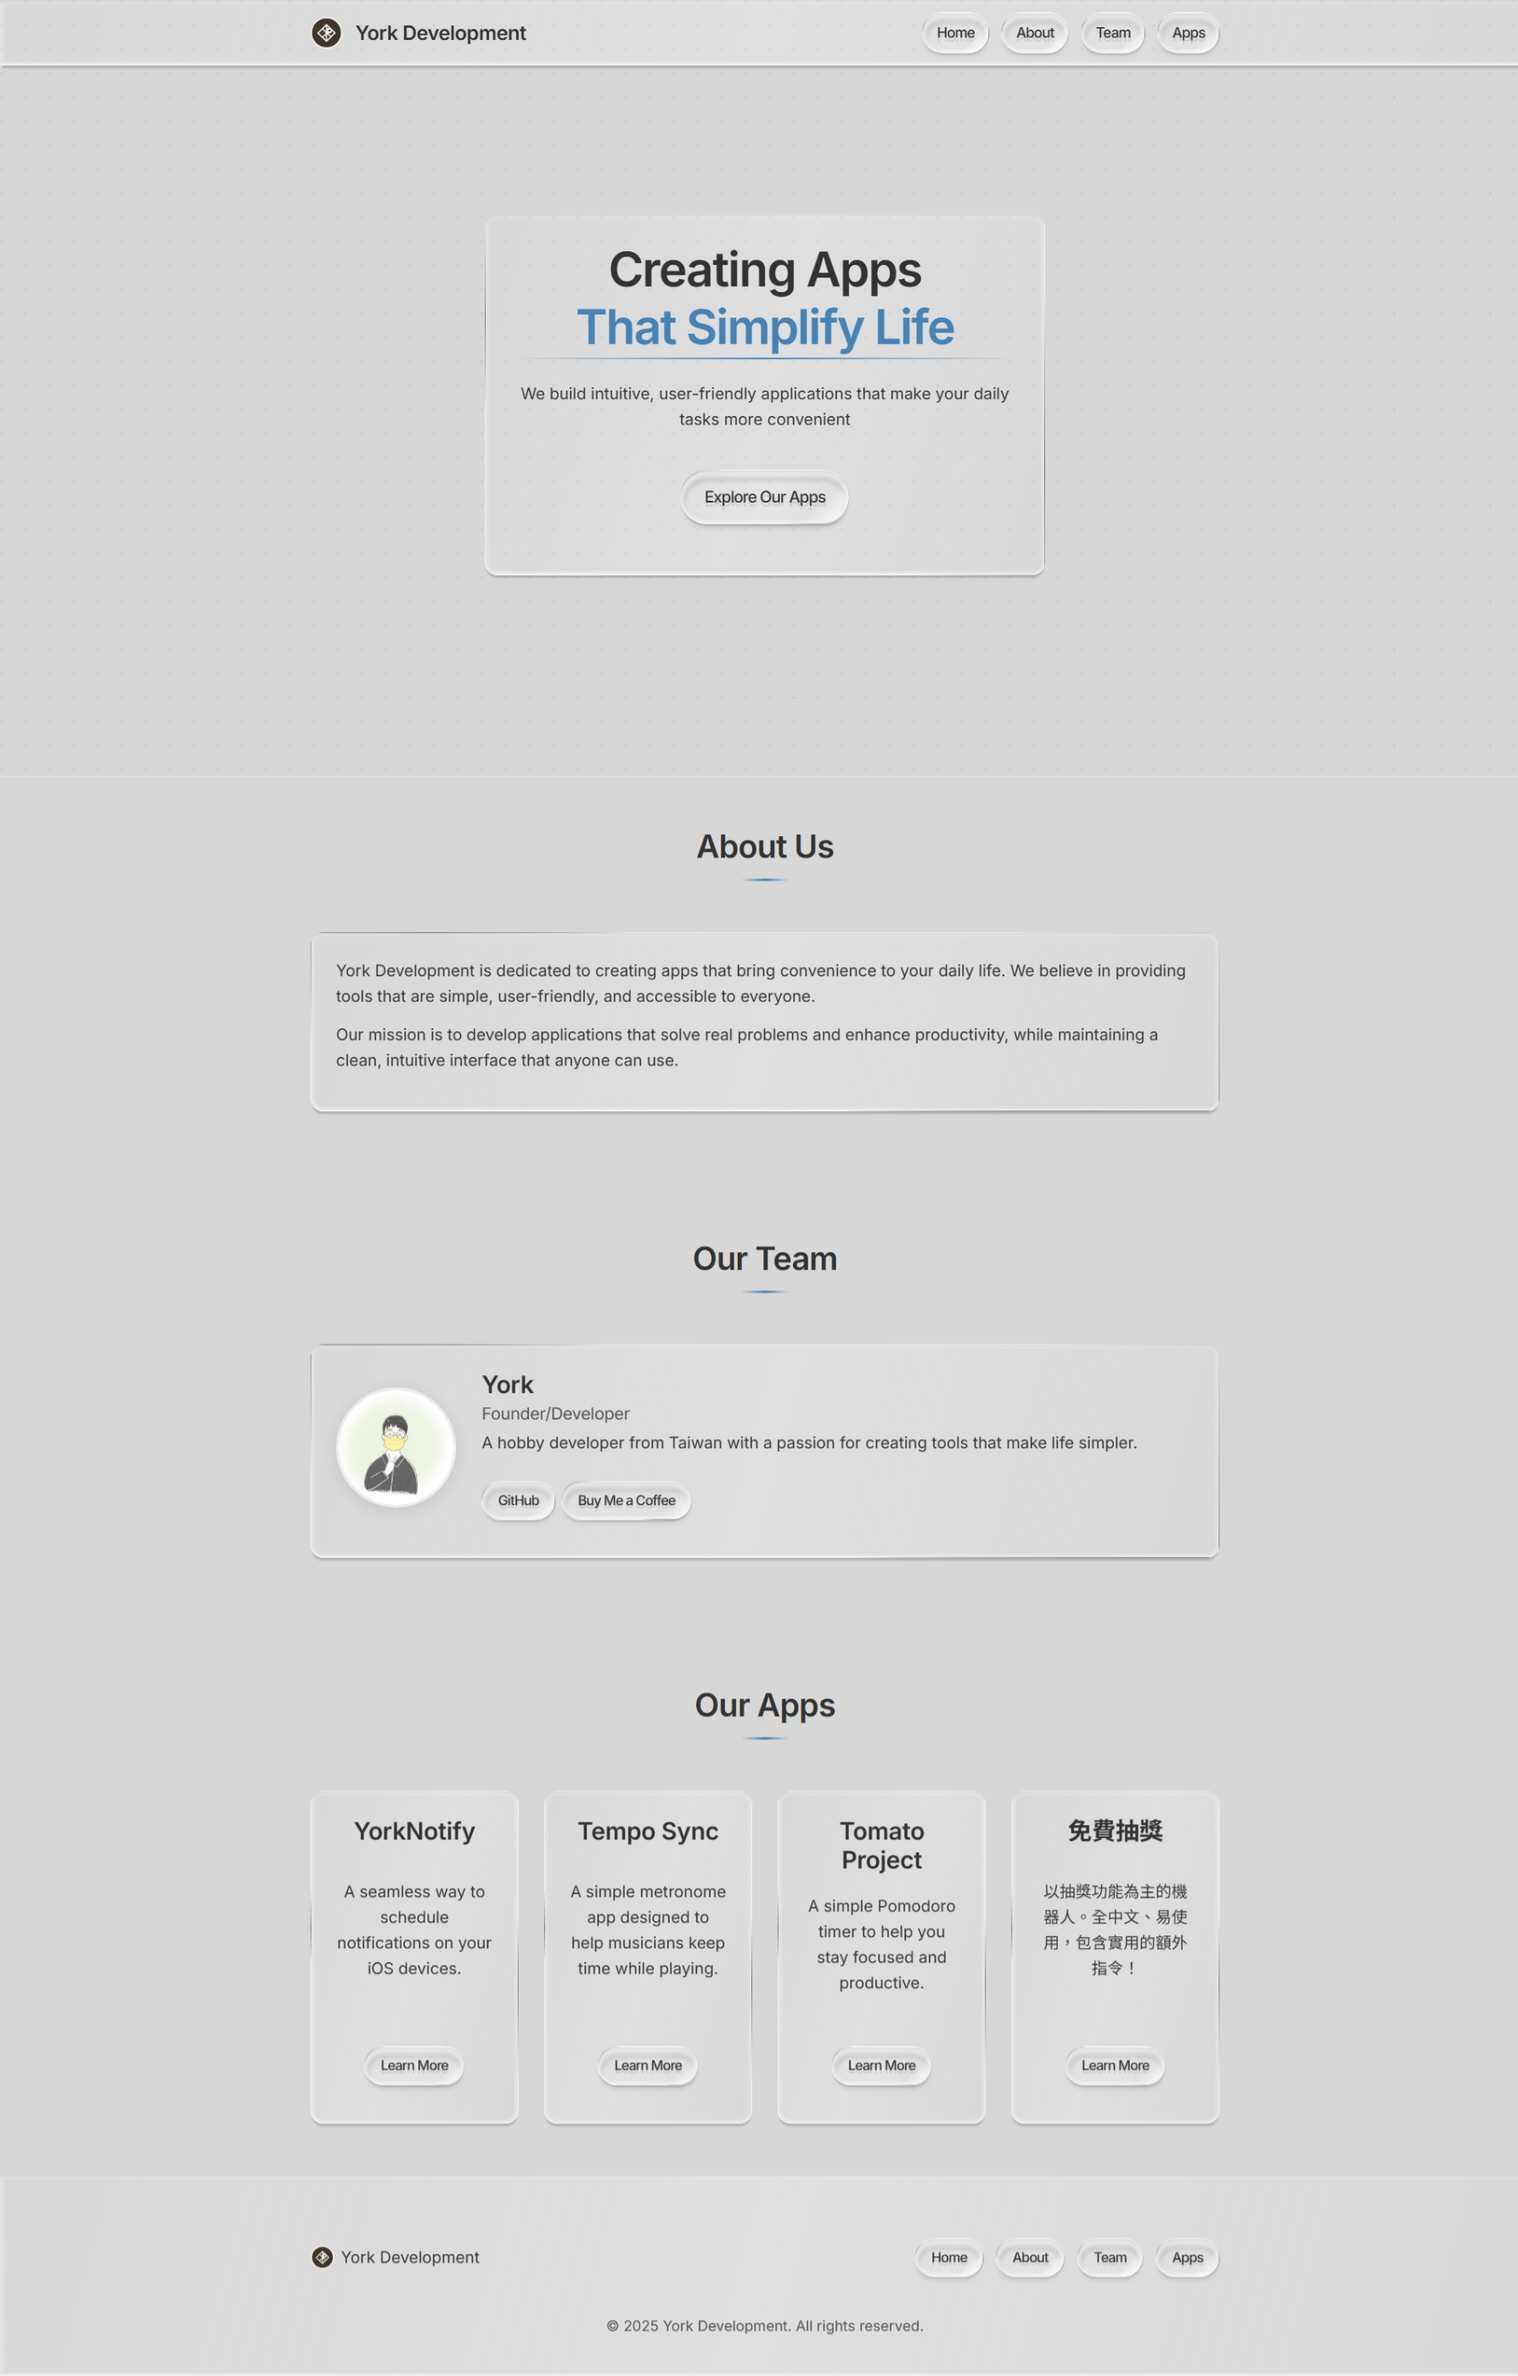
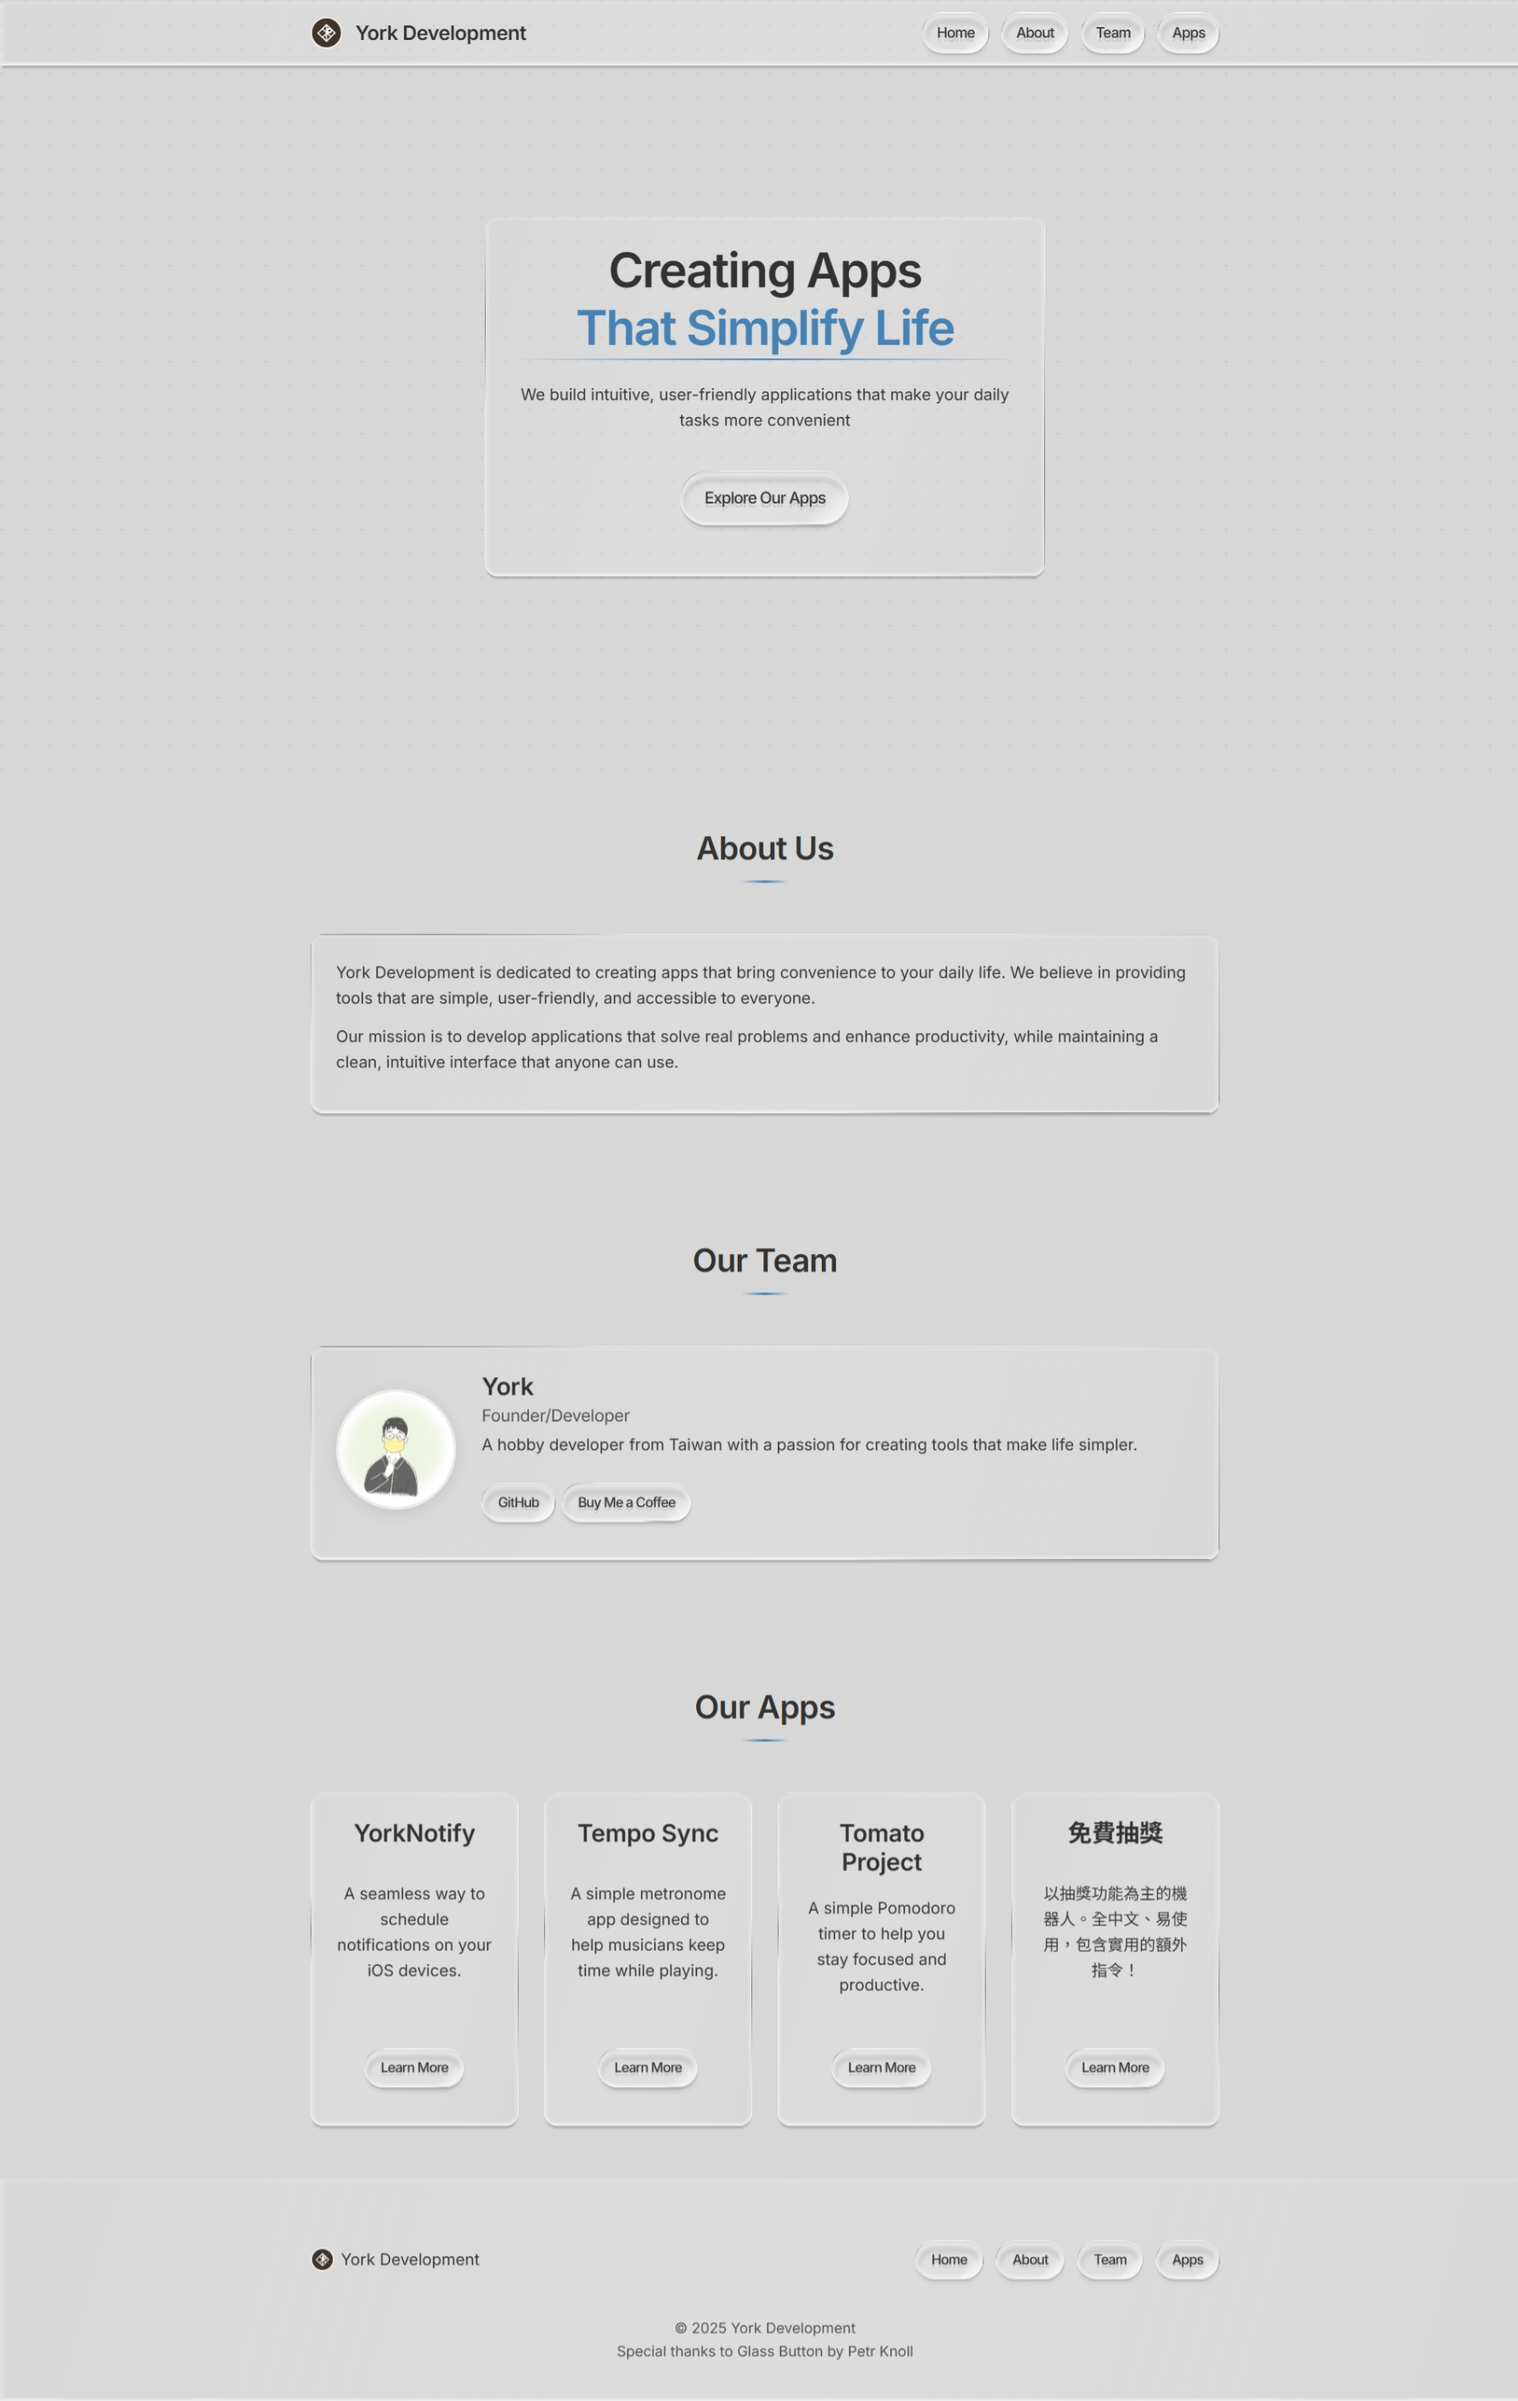
Optimized for mobile devices

diff --git a/styles.css b/styles.css
@@ -59,6 +59,10 @@ body {
   overflow-x: hidden;
 }
 
+body.no-scroll {
+  overflow: hidden;
+}
+
 h1, h2, h3, h4, h5, h6 {
   font-weight: 600;
   line-height: 1.2;
@@ -113,9 +117,9 @@ a {
 .glass-card, .glass-nav, .glass-footer {
   background: linear-gradient(
     -75deg,
-    rgba(255, 255, 255, 0.05),
-    rgba(255, 255, 255, 0.2),
-    rgba(255, 255, 255, 0.05)
+    rgba(255, 255, 255, 0.03),
+    rgba(255, 255, 255, 0.15),
+    rgba(255, 255, 255, 0.03)
   );
   border-radius: var(--border-radius-md);
   box-shadow: inset 0 0.125em 0.125em rgba(0, 0, 0, 0.05),
@@ -135,16 +139,26 @@ a {
   margin-bottom: var(--spacing-lg);
   transform: translateY(0);
   transition: transform var(--anim--hover-time) var(--anim--hover-ease),
-              box-shadow var(--anim--hover-time) var(--anim--hover-ease);
+              box-shadow var(--anim--hover-time) var(--anim--hover-ease),
+              background var(--anim--hover-time) var(--anim--hover-ease),
+              backdrop-filter var(--anim--hover-time) var(--anim--hover-ease);
 }
 
-/* Add floating effect to cards on hover */
+/* Add floating effect and more transparency to cards on hover */
 .glass-card:hover {
   transform: translateY(-10px);
   box-shadow: inset 0 0.125em 0.125em rgba(0, 0, 0, 0.05),
     inset 0 -0.125em 0.125em rgba(255, 255, 255, 0.5),
     0 15px 25px -10px rgba(0, 0, 0, 0.25),
     0 0 0.1em 0.25em inset rgba(255, 255, 255, 0.2);
+  background: linear-gradient(
+    -75deg,
+    rgba(255, 255, 255, 0.01),
+    rgba(255, 255, 255, 0.1),
+    rgba(255, 255, 255, 0.01)
+  );
+  backdrop-filter: blur(2px);
+  -webkit-backdrop-filter: blur(2px);
 }
 
 .glass-card::after {
@@ -228,6 +242,49 @@ a {
   display: flex;
   gap: var(--spacing-md);
   align-items: center;
+}
+
+/* Mobile menu toggle */
+.mobile-menu-toggle {
+  display: none;
+}
+
+/* ========== MOBILE MENU ========== */
+.mobile-menu {
+  position: fixed;
+  top: 0;
+  left: 0;
+  width: 100%;
+  height: 100%;
+  background: rgba(215, 215, 215, 0.6);
+  backdrop-filter: blur(10px);
+  -webkit-backdrop-filter: blur(10px);
+  z-index: 999;
+  display: flex;
+  justify-content: center;
+  align-items: center;
+  opacity: 0;
+  visibility: hidden;
+  transition: opacity 0.3s ease, visibility 0.3s ease;
+}
+
+.mobile-menu.active {
+  opacity: 1;
+  visibility: visible;
+}
+
+.mobile-menu-content {
+  display: flex;
+  flex-direction: column;
+  align-items: center;
+  gap: var(--spacing-lg);
+  padding: var(--spacing-xl) 0;
+}
+
+.mobile-nav-button-wrap button span {
+  font-size: 1.2em;
+  padding-inline: 2em;
+  padding-block: 0.8em;
 }
 
 /* ========== HERO SECTION ========== */
@@ -314,6 +371,7 @@ section {
   display: flex;
   gap: var(--spacing-sm);
   margin-top: var(--spacing-md);
+  flex-wrap: wrap;
 }
 
 /* ========== APPS SECTION ========== */
@@ -365,6 +423,7 @@ section {
 .footer-links {
   display: flex;
   gap: var(--spacing-md);
+  flex-wrap: wrap;
 }
 
 .copyright {
@@ -452,21 +511,38 @@ button {
   -webkit-tap-highlight-color: rgba(0, 0, 0, 0);
   pointer-events: auto;
   z-index: 3;
-  background: linear-gradient(
-    -75deg,
-    rgba(255, 255, 255, 0.05),
-    rgba(255, 255, 255, 0.2),
-    rgba(255, 255, 255, 0.05)
-  );
+  /* Adjusted background for better Safari compatibility */
+  background: rgba(255, 255, 255, 0.1);
   border-radius: 999vw;
   box-shadow: inset 0 0.125em 0.125em rgba(0, 0, 0, 0.05),
     inset 0 -0.125em 0.125em rgba(255, 255, 255, 0.5),
     0 0.25em 0.125em -0.125em rgba(0, 0, 0, 0.2),
-    0 0 0.1em 0.25em inset rgba(255, 255, 255, 0.2),
-    0 0 0 0 rgba(255, 255, 255, 1);
+    0 0 0.1em 0.25em inset rgba(255, 255, 255, 0.2);
   backdrop-filter: blur(clamp(1px, 0.125em, 4px));
   -webkit-backdrop-filter: blur(clamp(1px, 0.125em, 4px));
   transition: all var(--anim--hover-time) var(--anim--hover-ease);
+}
+
+/* Safari-specific fixes */
+@media not all and (min-resolution:.001dpcm) { 
+  @supports (-webkit-appearance:none) {
+    button {
+      background: linear-gradient(
+        -75deg,
+        rgba(255, 255, 255, 0.15),
+        rgba(255, 255, 255, 0.35),
+        rgba(255, 255, 255, 0.15)
+      );
+    }
+    
+    button::after {
+      opacity: 0.9;
+    }
+    
+    .button-shadow::after {
+      opacity: 0.8;
+    }
+  }
 }
 
 button:hover {
@@ -476,8 +552,7 @@ button:hover {
   box-shadow: inset 0 0.125em 0.125em rgba(0, 0, 0, 0.05),
     inset 0 -0.125em 0.125em rgba(255, 255, 255, 0.5),
     0 0.15em 0.05em -0.1em rgba(0, 0, 0, 0.25),
-    0 0 0.05em 0.1em inset rgba(255, 255, 255, 0.5),
-    0 0 0 0 rgba(255, 255, 255, 1);
+    0 0 0.05em 0.1em inset rgba(255, 255, 255, 0.5);
 }
 
 /* Button Text */
@@ -644,8 +719,21 @@ button:active::after {
     gap: var(--spacing-lg);
   }
   
-  .nav-links {
-    display: none; /* TODO: Mobile hamburger menu */
+  /* Hide desktop nav and show mobile menu toggle on mobile */
+  .desktop-nav {
+    display: none;
+  }
+  
+  .mobile-menu-toggle {
+    display: block;
+  }
+  
+  .footer-links {
+    justify-content: center;
+  }
+  
+  .team-links {
+    justify-content: center;
   }
 }
 
@@ -665,5 +753,14 @@ button:active::after {
   button span::after,
   button:active span::after {
     --angle-2: -45deg;
+  }
+  
+  /* Extra fixes for mobile cards */
+  .glass-card:hover {
+    transform: translateY(0);
+    box-shadow: inset 0 0.125em 0.125em rgba(0, 0, 0, 0.05),
+      inset 0 -0.125em 0.125em rgba(255, 255, 255, 0.5),
+      0 0.25em 0.125em -0.125em rgba(0, 0, 0, 0.2),
+      0 0 0.1em 0.25em inset rgba(255, 255, 255, 0.2);
   }
 }

diff --git a/index.html b/index.html
@@ -1,6 +1,3 @@
-<!-- TODO: Mobile hamburger menu for navigation links -->
-<!-- TODO: Add some fancy animations -->
-
 <!DOCTYPE html>
 <html lang="en">
 <head>
@@ -31,8 +28,18 @@
         <span class="logo-text">York Development</span>
       </div>
       
-      <div class="nav-links">
-        <!-- Replace nav links with glass buttons -->
+      <!-- Mobile menu toggle button -->
+      <div class="mobile-menu-toggle">
+        <div class="button-wrap nav-button-wrap">
+          <button id="menuToggle">
+            <span>Menu</span>
+          </button>
+          <div class="button-shadow"></div>
+        </div>
+      </div>
+      
+      <!-- Desktop Navigation -->
+      <div class="nav-links desktop-nav">
         <div class="button-wrap nav-button-wrap">
           <button onclick="scrollToSection('home')">
             <span>Home</span>
@@ -63,6 +70,39 @@
       </div>
     </div>
   </nav>
+  
+  <!-- Mobile Navigation Menu Overlay -->
+  <div class="mobile-menu">
+    <div class="mobile-menu-content">
+      <div class="button-wrap mobile-nav-button-wrap">
+        <button onclick="scrollToSection('home'); toggleMobileMenu()">
+          <span>Home</span>
+        </button>
+        <div class="button-shadow"></div>
+      </div>
+      
+      <div class="button-wrap mobile-nav-button-wrap">
+        <button onclick="scrollToSection('about'); toggleMobileMenu()">
+          <span>About</span>
+        </button>
+        <div class="button-shadow"></div>
+      </div>
+      
+      <div class="button-wrap mobile-nav-button-wrap">
+        <button onclick="scrollToSection('team'); toggleMobileMenu()">
+          <span>Team</span>
+        </button>
+        <div class="button-shadow"></div>
+      </div>
+      
+      <div class="button-wrap mobile-nav-button-wrap">
+        <button onclick="scrollToSection('apps'); toggleMobileMenu()">
+          <span>Apps</span>
+        </button>
+        <div class="button-shadow"></div>
+      </div>
+    </div>
+  </div>
 
   <!-- Hero Section -->
   <section id="home" class="hero">
@@ -198,7 +238,6 @@
           <span>York Development</span>
         </div>
         <div class="footer-links">
-          <!-- Footer links with glass buttons -->
           <div class="button-wrap small-button-wrap">
             <button onclick="scrollToSection('home')">
               <span>Home</span>
@@ -229,7 +268,9 @@
         </div>
       </div>
       <div class="copyright">
-        <p>&copy; 2025 York Development.</p>
+        <p>&copy; 2025 York Development<br>
+          Special thanks to <a href="https://codepen.io/Petr-Knoll/pen/QwWLZdx" target="_blank" rel="noopener">Glass Button</a> by Petr Knoll
+        </p>
       </div>
     </div>
   </footer>
@@ -241,6 +282,27 @@
         behavior: 'smooth'
       });
     }
+    
+    // Mobile menu toggle
+    const mobileMenu = document.querySelector('.mobile-menu');
+    const menuToggle = document.getElementById('menuToggle');
+    
+    function toggleMobileMenu() {
+      mobileMenu.classList.toggle('active');
+      document.body.classList.toggle('no-scroll');
+    }
+    
+    menuToggle.addEventListener('click', toggleMobileMenu);
+    
+    // Close mobile menu when clicking outside
+    document.addEventListener('click', function(event) {
+      const isClickInside = mobileMenu.contains(event.target) || 
+                           menuToggle.contains(event.target);
+      
+      if (!isClickInside && mobileMenu.classList.contains('active')) {
+        toggleMobileMenu();
+      }
+    });
   </script>
 </body>
 </html>

diff --git a/README.md b/README.md
@@ -2,7 +2,7 @@
 
 ![Screenshot](./Screenshot.png)
 
-# Special thanks
+## Special thanks
 - [Glass Button](https://codepen.io/Petr-Knoll/pen/QwWLZdx) by Petr Knoll
 
 License:
@@ -16,7 +16,7 @@ The above copyright notice and this permission notice shall be included in all c
 THE SOFTWARE IS PROVIDED "AS IS", WITHOUT WARRANTY OF ANY KIND, EXPRESS OR IMPLIED, INCLUDING BUT NOT LIMITED TO THE WARRANTIES OF MERCHANTABILITY, FITNESS FOR A PARTICULAR PURPOSE AND NONINFRINGEMENT. IN NO EVENT SHALL THE AUTHORS OR COPYRIGHT HOLDERS BE LIABLE FOR ANY CLAIM, DAMAGES OR OTHER LIABILITY, WHETHER IN AN ACTION OF CONTRACT, TORT OR OTHERWISE, ARISING FROM, OUT OF OR IN CONNECTION WITH THE SOFTWARE OR THE USE OR OTHER DEALINGS IN THE SOFTWARE.
 ```
 
-# License
+## License
 MIT
 
-© 2025 York Development.
+© 2025 York Development
